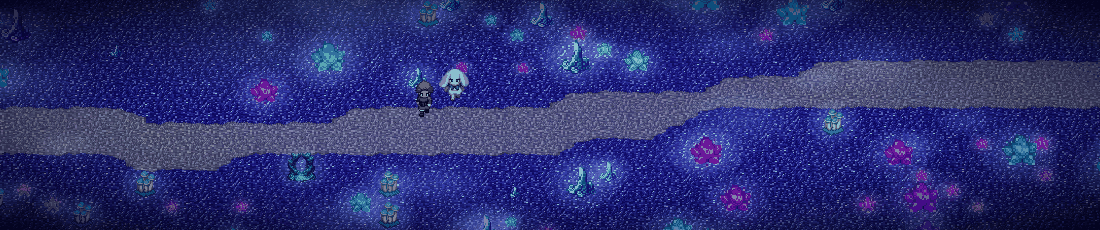
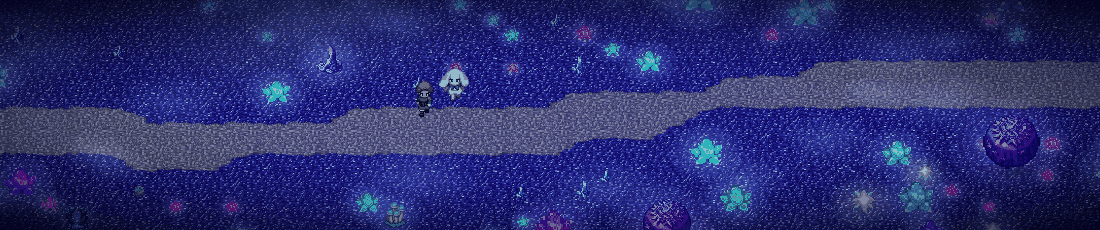
Tunnel caves: crystals, amber, ore and moss rocks walked past; the big things first
The tunnel caves are a cell wide since they became mazes, so almost nothing in
the way fits (LandPlanTests: Rat Cavern set 1 stalagmite of 75). Their
crystals, amber, ore veins and glowing moss rocks are now walked past, and the
few things in the way (beams, carts, boulders, stalagmites) are listed first,
rarest first, as many as fit. The Glimmerdeep's crystals are walked past too,
its spires and geodes set down first and fewer.

Claude-Session: https://claude.ai/code/session_01A828hAE5V6eVoqTP3b8QbP

diff --git a/CLAUDE.md b/CLAUDE.md
@@ -246,7 +246,10 @@ people, bosses, quests) in player-facing text: `docs/fairyland-online.md` → Na
   each prop sets down (a rule can silently never fire): every one at least once, a `near` one half as often as
   asked; CI prints each land's props set down under half (🌳). It found the caves bare (nothing in the way could stand a cell from a
   passage's middle, and the mazes run everywhere): now never on a passage's middle, and only where the open cells
-  round it stay one arc of five or more (`WorldMap.leavesWayRound`), so nothing cuts or narrows a way shut; and a
+  round it stay one arc of five or more (`WorldMap.leavesWayRound`), so nothing cuts or narrows a way shut; the tunnel
+  caves (Rat Cavern, the Gooey Grotto, the Mysterious Cave), a cell wide, hold only a few things in the way
+  (carts, beams, boulders, stalagmites, listed first, rarest first), and their crystals, amber, ore and moss rocks
+  are walked past, as are the Glimmerdeep's crystals, its spires and geodes first (the user's pick, 2026-11-21); and a
   town's well, statue and flower beds listed before its square's daisies, which had filled it first. Chicks live in a farm's yard (`Critters.home`). Debug `at=place`.
   Each kind of place is a landmark too (`WorldMap.landmark`: `at: "farm"`, `"ruin"`…, `which`): every land has a
   chest at one of its places (a potion or ether by its level, refilling as chests do) and someone living at another
